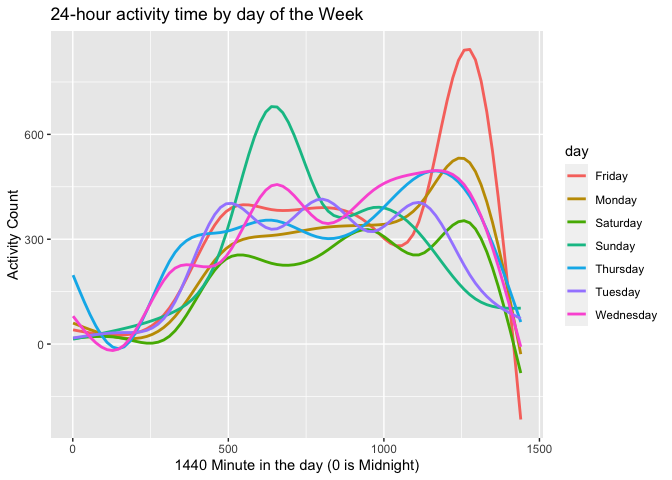
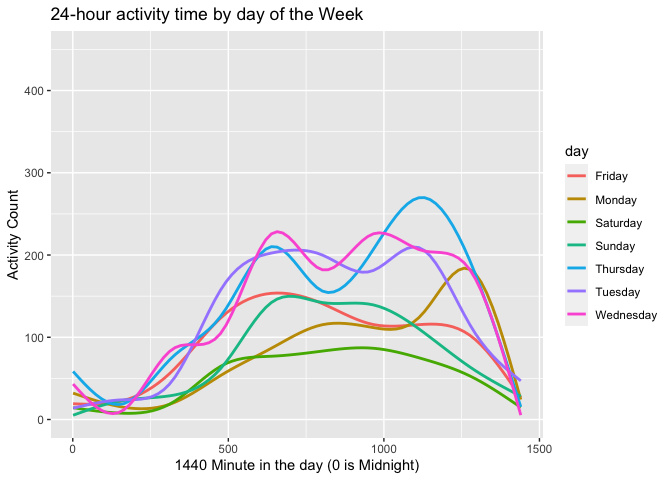
finishing up

diff --git a/p8105_hw3_ajp2257.md b/p8105_hw3_ajp2257.md
@@ -255,6 +255,12 @@ activity_long %>%
 |    4 | 260617 | 409450.00 | 319568.0 |    434460 | 340291.0 | 154049.0 |     1440 |
 |    5 | 138421 | 389080.00 | 367824.0 |    445366 | 549658.0 | 620860.0 |     1440 |
 
+Here just looking at the numbers it is hard to see very distinct
+patterns. A couple of things I notice is that on the last two Saturday
+the person barely has any movement which is a big difference compared to
+other days. Also on Wednesdays through all the weeks he looks to have
+around the same amount of activity comparatively.
+
   - Accelerometer data allows the inspection activity over the course of
     the day. Make a single-panel plot that shows the 24-hour activity
     time courses for each day and use color to indicate day of the week.
@@ -267,7 +273,8 @@ activity_long %>%
 activity_long %>%
   ggplot(aes(x = as.numeric(activity_number), y = as.numeric(activity_minute), color=day)) +
   geom_smooth(se = FALSE) +
-  labs(
+  scale_y_continuous(limit=c(0,450)) +
+  labs( 
     title = "24-hour activity time by day of the Week",
     x = "1440 Minute in the day (0 is Midnight)",
     y = "Activity Count"
@@ -277,14 +284,17 @@ activity_long %>%
 
     ## `geom_smooth()` using method = 'gam' and formula 'y ~ s(x, bs = "cs")'
 
+    ## Warning: Removed 10349 rows containing non-finite values (stat_smooth).
+
 ![](p8105_hw3_ajp2257_files/figure-gfm/q2_plot-1.png)<!-- -->
 
 Looking at the graph we see that at the very beginning and the very end
 there is less activity which makes sense because that is closest to
 midnight so the person is probably asleep. Also, most activity is in the
 middle of the graph which makes sense because that is the beginning of
-the day. The biggest spike is on Friday towards the end of the day so
-maybe on Fridays, he has some strenuous nighttime activity.
+the day. The lest activity seems to be on Saturdays which makes sense
+with the table from above because he did have a couple weeks of very low
+activity on Saturdays.
 
 # Problem 3
 
@@ -508,3 +518,7 @@ two = ny_noaa_fixed %>%
     ## Warning: Removed 30 rows containing missing values (geom_segment).
 
 ![](p8105_hw3_ajp2257_files/figure-gfm/unnamed-chunk-16-1.png)<!-- -->
+
+It is really interesting that the median is the same for snow fall all
+the years. However, the mean is different for all the year which can
+help show the years that had more extreme snowfalls.
